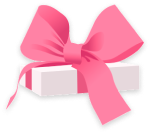
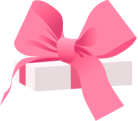
feat: 랜덤 코인 배경 넣기

diff --git a/src/pages/CoinDrawPage/index.tsx b/src/pages/CoinDrawPage/index.tsx
@@ -1,6 +1,4 @@
 import { Button, Header } from '@/components'
-// import { GiftBox } from './components'
-// import { Canvas } from '@react-three/fiber'
 import { useState, useMemo } from 'react'
 import { CoinIcon } from '@/assets/Icons'
 import { ICONS } from '@/constants'
@@ -18,10 +16,20 @@ const CoinDrawPage = () => {
   const { data: userInfo } = useGetUser()
   const { mutate: addCoin } = usePostCoin()
 
-  const getImageUrl = (name: string) => {
+  const getGiftBoxImageUrl = (name: string) => {
     return new URL(`/src/assets/images/giftBox/${name}.png`, import.meta.url)
       .href
   }
+
+  const getBackgroundImageUrl = (name: string) => {
+    return new URL(`/src/assets/images/${name}.png`, import.meta.url).href
+  }
+
+  const getRandomNumber = useMemo(() => {
+    return (
+      Math.round((Math.floor(Math.random() * (500 - 50 + 1)) + 50) / 10) * 10
+    )
+  }, [])
 
   const clickCoinBox = () => {
     if (drawingStatus === 'before') return
@@ -31,12 +39,6 @@ const CoinDrawPage = () => {
     setDrawingStatus('after')
   }
 
-  const getRandomNumber = useMemo(() => {
-    return (
-      Math.round((Math.floor(Math.random() * (500 - 50 + 1)) + 50) / 10) * 10
-    )
-  }, [])
-
   const handleClickButton = () => {
     setIsWiggling(true)
     setDrawingStatus('loading')
@@ -44,7 +46,12 @@ const CoinDrawPage = () => {
   }
 
   return (
-    <>
+    <div
+      className="relative flex h-dvh flex-col"
+      style={{
+        backgroundImage: `${drawingStatus === 'after' && `url(${getBackgroundImageUrl('coinBackground')})`}`,
+      }}
+    >
       <Header leftIcon={ICONS.HOME} />
       <div className="relative flex h-full flex-col justify-between px-6 py-2">
         <div
@@ -64,7 +71,7 @@ const CoinDrawPage = () => {
           </div>
         </div>
         {drawingStatus === 'after' && (
-          <div className="absolute left-0 top-[10%] flex w-full flex-col items-center justify-center gap-2">
+          <div className="absolute left-0 top-[10%] flex w-full flex-col items-center justify-center gap-2 bg-white/85 px-4 py-3">
             <h2 className="font-lg text-[#5B5B5B]">축하합니다!</h2>
             <div className="flex flex-col gap-1.5 text-center">
               <h1 className="font-xl text-[#282828]">{`${getCoinValue} 코인`}</h1>
@@ -77,7 +84,7 @@ const CoinDrawPage = () => {
         <div className="flex w-full justify-center">
           {drawingStatus !== 'after' ? (
             <img
-              src={getImageUrl('giftBox')}
+              src={getGiftBoxImageUrl('giftBox')}
               alt="giftBox"
               onClick={clickCoinBox}
               className={`${isWiggling && 'animate-wiggle'}`}
@@ -85,13 +92,13 @@ const CoinDrawPage = () => {
           ) : (
             <div className="flex w-full flex-col items-center justify-center">
               <img
-                src={getImageUrl('giftBoxTop')}
+                src={getGiftBoxImageUrl('giftBoxTop')}
                 alt="giftBox"
                 onClick={clickCoinBox}
                 className={`w-[53%]`}
               />
               <img
-                src={getImageUrl('giftBoxBottom')}
+                src={getGiftBoxImageUrl('giftBoxBottom')}
                 alt="giftBox"
                 onClick={clickCoinBox}
                 className={`w-[98%]`}
@@ -120,7 +127,7 @@ const CoinDrawPage = () => {
           )}
         </div>
       </div>
-    </>
+    </div>
   )
 }
 
